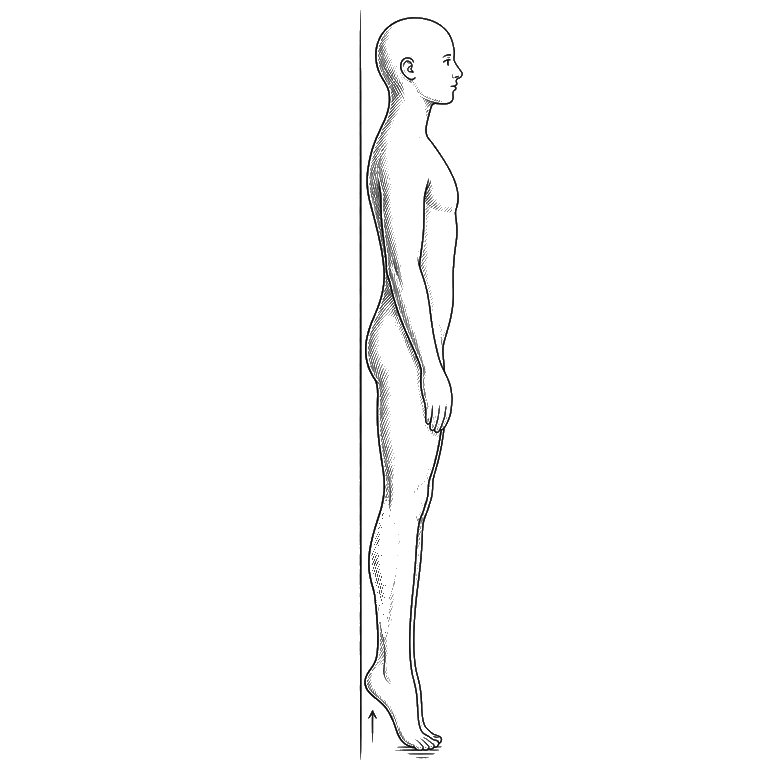
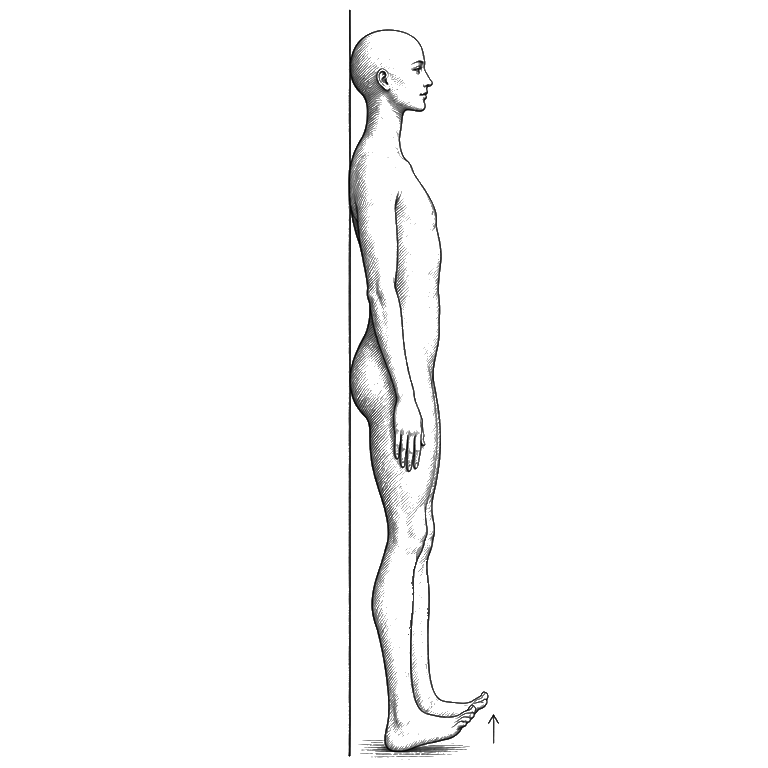
feat(glifos): cinco dibujos nuevos del encargo del 14 oct., elegidos por Ez
Logros (ingest-glifos-logro.js, con lo que Ez eligió mirando cómo quedan en el sello):
- «Primer día»: el sol saliendo sobre el horizonte; la luna creciente de antes era la
  misma que la de «Ocaso» y casi la del «Búho».
- «Cuarto creciente» (streak.7): la media luna; antes, un dibujo hecho en código.
- «Solsticio invierno»: el árbol desnudo con la luna; el copo de antes se leía igual
  que el de «Invierno».
El mortero y la corona de roble se quedan sin asignar (Ez), en .old/Glifos_logros.
Al entrar tres dibujos, la mediana de peso que iguala los sellos flojos pasa de 2,39 % a
2,49 %, y 21 sellos suben esa diferencia (0,26 sobre 255 de media): es lo que hace el
guion, que no se retoca a mano.

Ejercicios (ingest-glifos-ejercicio.js --fusionar):
- «Hueco abdominal»: tumbado con piernas y hombros despegados; antes parecía el principio
  de un abdominal.
- «Elevación de puntas»: talones abajo y puntas arriba; antes estaba de puntillas, que es
  «Elevación de talones».
Ez vio que traían más sombreado en la espalda que los demás y pidió la misma intensidad:
ACLARADO, una curva por dibujo que deja su rayado por contorno en la mediana de los 57
integrados (0,52); 1,64 y 1,14.

La ingesta de logros encuentra ya la carpeta de originales desde una carpeta de trabajo
(.claude/worktrees/...). Censo de verify y GLIFOS_LOGROS_ENCARGO.md al día (faltan 18).

CHANGELOG: dibujos nuevos para «Primer día», «Cuarto creciente» y «Solsticio invierno», y
[…]

Changed region(s): [[0.4375, 0.0312, 0.6562, 1.0]]

diff --git a/scripts/ingest-glifos-logro.js b/scripts/ingest-glifos-logro.js
@@ -49,7 +49,10 @@ const ROOT = path.resolve(__dirname, '..');
    vive en UNA sola carpeta fuera del repo (lo que la app consume son las
    mascaras .webp de DESTINO, que si estan versionadas). Los 19 dibujos nuevos
    se movieron aqui, y se reconocen por el prefijo `exlibris_handcraft`. */
-const ORIGEN = path.resolve(ROOT, '..', '.old', 'Glifos_logros');
+/* Desde una carpeta de trabajo (`.claude/worktrees/<rama>`) la carpeta de originales sigue
+   colgando del repo principal, no de la carpeta de trabajo. */
+const REPO = ROOT.split(path.sep + '.claude' + path.sep + 'worktrees' + path.sep)[0];
+const ORIGEN = path.resolve(REPO, '..', '.old', 'Glifos_logros');
 const DESTINO = path.join(ROOT, 'app', 'glyphs', 'assets', 'logros');
 
 const SUELO = 238;
@@ -82,7 +85,9 @@ const MAPEO = {
   "explore.ujjayi":           "Premium_editorial_zen_seal_three_rhythmic_hairlin-1785709298327.png",
   "first.breath":             "35bsw04l3",
   "first.cycle":              "9j3y5oet7",
-  "first.day":                "4ge0ksckf",
+  /* 14 oct. 2026 · el sol saliendo sobre el horizonte que pedía el encargo: la luna creciente
+     de antes era la misma que la de «Ocaso» y casi la del «Búho». */
+  "first.day":                "bjyi3wuwo",
   "first.extra":              "uxj5jdlym",
   "first.plan":               "os48f5hru",
   "first.return":             "y0xmmncb2",
@@ -113,7 +118,9 @@ const MAPEO = {
   "season.equinox.spring":    "u1rbeljzr",
   "season.four":              "Premium_editorial_zen_seal_a_precise_circular_whe-1785709550699.png",
   "season.solstice.summer":   "Premium_editorial_zen_seal_a_radiant_sun_at_the_c-1785709408863.png",
-  "season.solstice.winter":   "Premium_editorial_zen_seal_a_hexagonal_dendrite_s-1785709579776.png",
+  /* 14 oct. 2026 · el árbol desnudo con la luna arriba: el copo de antes se leía igual que el de
+     «Invierno» a tamaño de sello. */
+  "season.solstice.winter":   "zvbby8tgb",
   "season.spring":            "gu806iwct",
   "season.winter":            "taaeioi3e",
   "secret.backup":            "ns6eokage",
@@ -136,6 +143,8 @@ const MAPEO = {
   "streak.3":                 "x1l37xssb",
   "streak.30":                "Premium_editorial_zen_seal_full_moon_disk_encircl-1785709239515.png",
   "streak.365":               "y4hlfp12j",
+  /* 14 oct. 2026 · la media luna (cuarto creciente): siete días, un cuarto de la luna. */
+  "streak.7":                 "ybpc85ksi",
   /* Bambu: crece por NUDOS, un tramo cada vez. «Estacion» son 60 dias seguidos. */
   "streak.60":                "rgi1ck55q",
 

diff --git a/scripts/verify.integridad.js b/scripts/verify.integridad.js
@@ -53,8 +53,8 @@ var CENSO = {
 
   /* glifos */
   glifosEjercicio: 47,          // exercise-glyphs.jsx + .extra.jsx (s148)
-  mascarasLogro: 77,            // achievement-masks.js (s146/s147; +19 en s167)
-  mascarasVisiblesDeSalida: 69, // las que un usuario nuevo ve pintadas (+17 en s167,
+  mascarasLogro: 78,            // achievement-masks.js (s146/s147; +19 en s167; +1 el 14 oct.: «Cuarto creciente»)
+  mascarasVisiblesDeSalida: 70, // las que un usuario nuevo ve pintadas (+1 el 14 oct.: «Cuarto creciente»; +17 en s167,
                                 //   -1 al pasar explore.tweaks a secreto)
   mascarasDeSecreto: 8,         // + estas, solo al desbloquear su secreto (+2 en s167:
                                 //   secret.dark.mode y secret.lunch)
@@ -73,7 +73,7 @@ var CENSO = {
   respira: 20, mueve: 14, estira: 17, caminos: 7,
 
   /* service worker */
-  precache: 235,                // +6 el 14 oct.: las voces de Respira en inglés (las dos voces, tres palabras). Antes, +3 en s176: las tres locuciones de `bradford`. filas de PRECACHE (s149; +19 mascaras de logro en s167; +47 glifos de ejercicio y sus 47 miniaturas en s170;
+  precache: 236,                // +1 el 14 oct.: el dibujo de «Cuarto creciente». Antes, +6 el 14 oct.: las voces de Respira en inglés (las dos voces, tres palabras). Antes, +3 en s176: las tres locuciones de `bradford`. filas de PRECACHE (s149; +19 mascaras de logro en s167; +47 glifos de ejercicio y sus 47 miniaturas en s170;
                                 //  +20 en s171: la 2a tanda sube el arte de ejercicio de 47 a 57 identidades, y cada una son DOS filas;
                                 //  +4 en s173: la 3a tanda son 4 dibujos pero solo DOS identidades nuevas -- «Fondos en silla» y
                                 //  «Deslizamientos en pared» ya tenian fila y la reutilizan, asi que suman 0)

diff --git a/scripts/ingest-glifos-ejercicio.js b/scripts/ingest-glifos-ejercicio.js
@@ -100,6 +100,8 @@ const numArg = (nombre, porDefecto) => {
 const RECORTE = numArg('--recorte', 220);
 const GAMMA = numArg('--gamma', 3.0);
 const SIN_ROJO = !args.includes('--con-rojo');
+/* Curva de más por dibujo, para los que llegan con más rayado que el resto (ver el paso 3). */
+const ACLARADO = { 'hueco-abdominal': 1.64, 'elevacion-de-puntas': 1.14 };
 /* SUELO DE LUMINANCIA DEL ROJO (s170, y nace de un defecto que el usuario vio
    antes que yo). El detector original era solo de TONO —`r - max(g,b) > 18`— y
    la tinta de estos grabados es SEPIA, o sea calida: medido, entre el 39 % y el
@@ -304,6 +306,12 @@ const PISO = RECORTE > 0 ? RECORTE : SUELO;
       const base = L >= PISO ? 0 : Math.min(1, (PISO - L) / rango);
       alfa[i] = Math.round(Math.pow(base, 1 / GAMMA) * 255);
     }
+    /* RAYADO DE MÁS: el generador cargó la espalda y la sombra del suelo en estos dos, y
+       al lado de los demás se veían más sombreados (Ez, 14 oct. 2026). La curva baja el
+       rayado suave y apenas toca el contorno; cada `k` deja su dibujo en la mediana de
+       «rayado por contorno» de los 57 integrados (tinta suave / tinta fuerte = 0,52). */
+    const aclarado = ACLARADO[p.s];
+    if (aclarado) for (let i = 0; i < alfa.length; i++) alfa[i] = Math.round(Math.pow(alfa[i] / 255, aclarado) * 255);
     /* AJUSTE FINO SOBRE EL ALFA YA MONTADO (s170). El recorte de arriba mide la
        tinta con `RECORTE`, pero la mascara incluye todo lo que este por debajo
        de `SUELO` — y entre los dos umbrales hay material tenue que la gamma

diff --git a/sw.js b/sw.js
@@ -251,6 +251,7 @@ const PRECACHE = [
   '/app/glyphs/assets/logros/streak.30.webp',
   '/app/glyphs/assets/logros/streak.365.webp',
   '/app/glyphs/assets/logros/streak.60.webp',
+  '/app/glyphs/assets/logros/streak.7.webp',
   /* s105: fuentes self-hosted (subset latin). En la web viajan como archivo
      (el standalone las inlinea como data URI); precache = offline fiel. */
   '/fonts/ebgaramond-400-italic.woff2',

diff --git a/app/glyphs/achievement-masks.js b/app/glyphs/achievement-masks.js
@@ -116,6 +116,7 @@ const ACHIEVEMENT_MASKS = {
   'streak.30':                'app/glyphs/assets/logros/streak.30.webp',
   'streak.365':               'app/glyphs/assets/logros/streak.365.webp',
   'streak.60':                'app/glyphs/assets/logros/streak.60.webp',
+  'streak.7':                 'app/glyphs/assets/logros/streak.7.webp',
 };
 
 function achievementMaskUrl(id) {

diff --git a/docs/product/GLIFOS_LOGROS_ENCARGO.md b/docs/product/GLIFOS_LOGROS_ENCARGO.md
@@ -1,7 +1,7 @@
-# Encargo de arte · los 19 glifos de LOGRO que faltan
+# Encargo de arte · los 18 glifos de LOGRO que faltan
 
 **Remedido del árbol en s169 (v0.99.0).** Catálogo: **96 logros** · con arte:
-**77** · **sin arte: 19**.
+**78** · **sin arte: 18** (el 14 oct. de 2026 entró «Cuarto creciente», `streak.7`).
 
 > **Este documento decía 38 y ya sólo faltan 19.** El cálculo original es de s164
 > (v0.94.0), cuando había 58 con arte; **s167 entregó los 19 que faltaban para
@@ -12,7 +12,7 @@
 > Cómo se remidió: cargando `catalog.js` y `achievement-masks.js` —cada uno en su
 > propia IIFE, como en el artefacto— y cruzando **id a id** las filas de este
 > documento contra el mapa de máscaras real. La cuenta cierra por **biyección**:
-> **19 entregadas + 19 sin arte = 38 filas**, **cero** ids que no existan en el
+> **20 entregadas + 18 sin arte = 38 filas**, **cero** ids que no existan en el
 > catálogo y **cero** logros sin arte que este documento no liste. Si algún día
 > no cierra, es que una de las dos partes se movió sin la otra.
 
@@ -75,7 +75,7 @@ huecos sueltos y este es un **desparejado**, que se ve más.
 
 | id | Título | Qué premia | Hoy | Sugerencia |
 |---|---|---|---|---|
-| `streak.7` | *(ver nota de nombre abajo)* | 7 días seguidos | SVG heráldico | **Siete espigas de trigo atadas en un haz.** Encaja con la vaca y el pacer; siete tallos contables de un vistazo. |
+| ~~`streak.7`~~ **ENTREGADO** (14 oct. 2026: la media luna del cuarto creciente) | *(ver nota de nombre abajo)* | 7 días seguidos | SVG heráldico | **Siete espigas de trigo atadas en un haz.** Encaja con la vaca y el pacer; siete tallos contables de un vistazo. |
 | `streak.14` | Quince días | 14 días seguidos | carácter `XIV` | **Dos haces de siete cruzados**, o una luna en cuarto creciente con catorce muescas en el borde. Debe leerse como «el doble del anterior». |
 | `breathe.sessions.50` | 50 respiraciones | sesiones acumuladas | SVG heráldico | **Un fuelle de herrero**, o un abanico de cinco pliegues abierto. Aire acumulado, no aire soplando. |
 

diff --git a/docs/traspaso/CAZA_SESIONES_14OCT.md b/docs/traspaso/CAZA_SESIONES_14OCT.md
@@ -138,10 +138,18 @@ el fondo). En las pruebas se hace saltando el reloj sin disparar ningún tempori
   lleva 0,39 s de silencio delante. Si Android tarda en abrir la salida del elemento de audio, el
   arranque de bradford se come la palabra. La música de Respira es Web Audio en directo y puede
   cargar la CPU de un móvil modesto: probar con la música apagada.
-- **Lo siguiente:** leer cómo se precarga y arranca el clip (`app/ui/Sound.voz.jsx`) y elegir entre
-  recodificar bradford como sulafat, ponerle un silencio corto delante (y volver a medir ini y fin a
-  −50 dBFS) o calentar la salida antes de la primera palabra. Va junto con las voces en inglés, que
-  tocan los mismos archivos.
+- **Lo que se probó (14 oct.):** una página con la palabra sonando de cuatro maneras
+  (https://claude.ai/artifact/8X535itr15XDyTheDewDrq, en la cuenta nueva): como hoy (un `<audio>`
+  por palabra, rebobinado), con una décima de silencio delante (cuatro tramas MP3 de silencio
+  metidas tras la trama «Info», sin recodificar), con un silencio de fondo sonando durante la
+  prueba, y por Web Audio. En el móvil de Ez **la de hoy ya se oye limpia**, así que el corte no
+  viene de cómo arranca el clip, sino de lo que la app hace a la vez: la música de Respira (tres
+  MP3 de 1,6 MB descodificados en Web Audio y un drone sintetizado), el tono, la animación.
+- **Lo siguiente:** que Ez lo pruebe en la app, en el móvil, en castellano con «Voz grave», con
+  la música puesta y con «Suena detrás: Nada». Si solo se corta con música, el arreglo probable es
+  que la voz salga por el mismo Web Audio que la música (la variante 4 de la página), o no
+  descodificar la música mientras habla la voz. Si se corta también sin música, mirar la
+  animación y el resto de la sesión con el perfil de rendimiento de Chrome en el móvil.
 
 ## Lo que se probó y no falla
 
